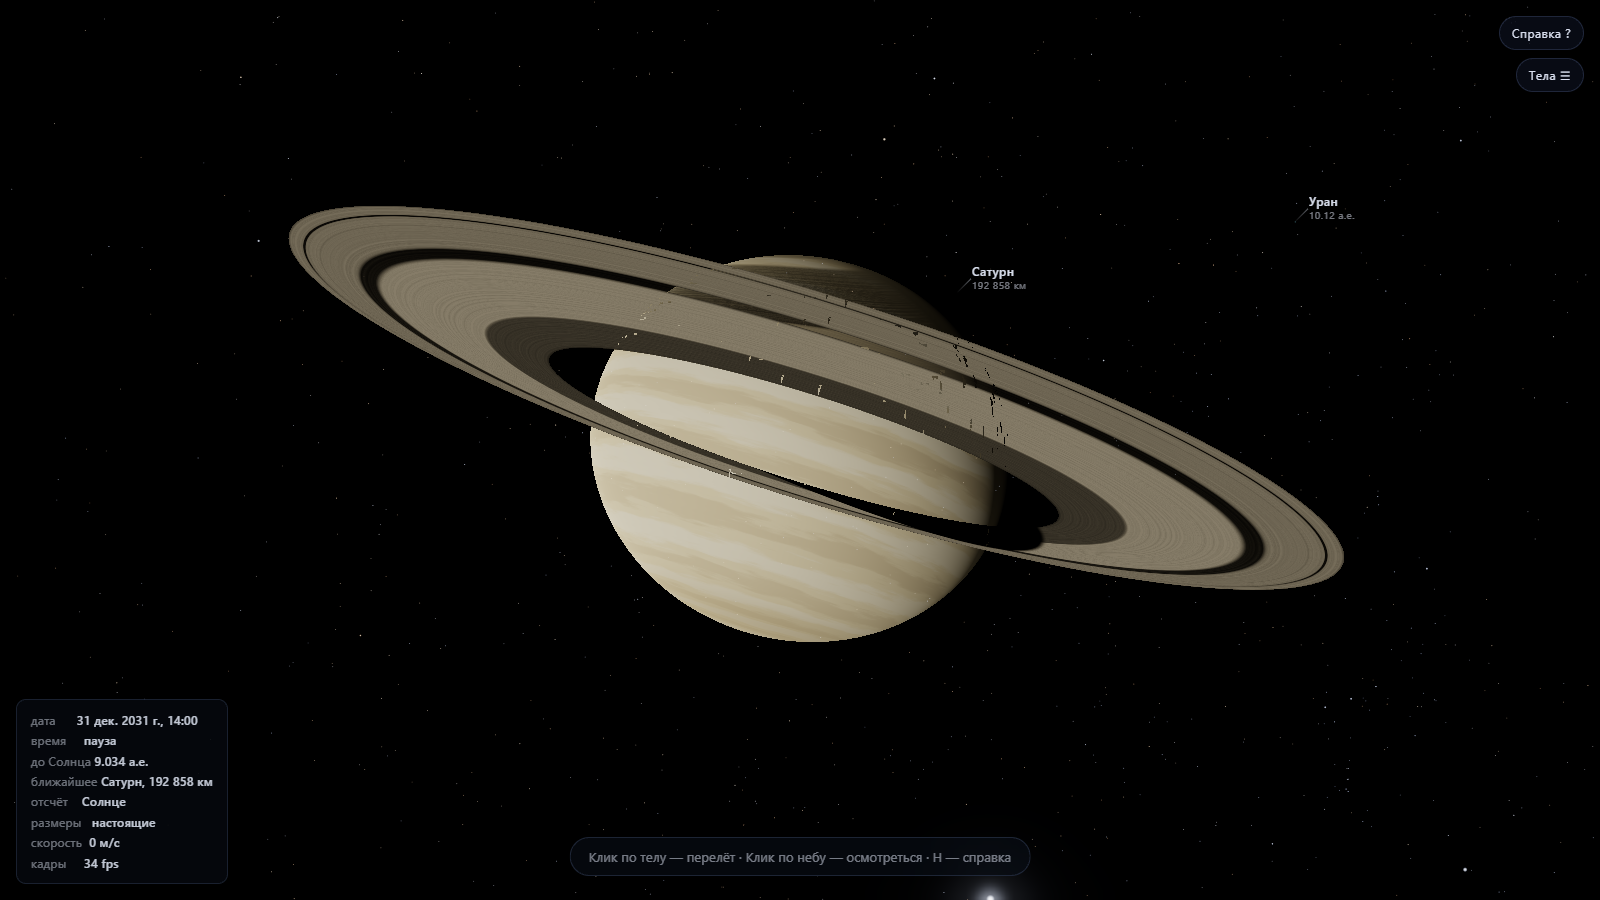
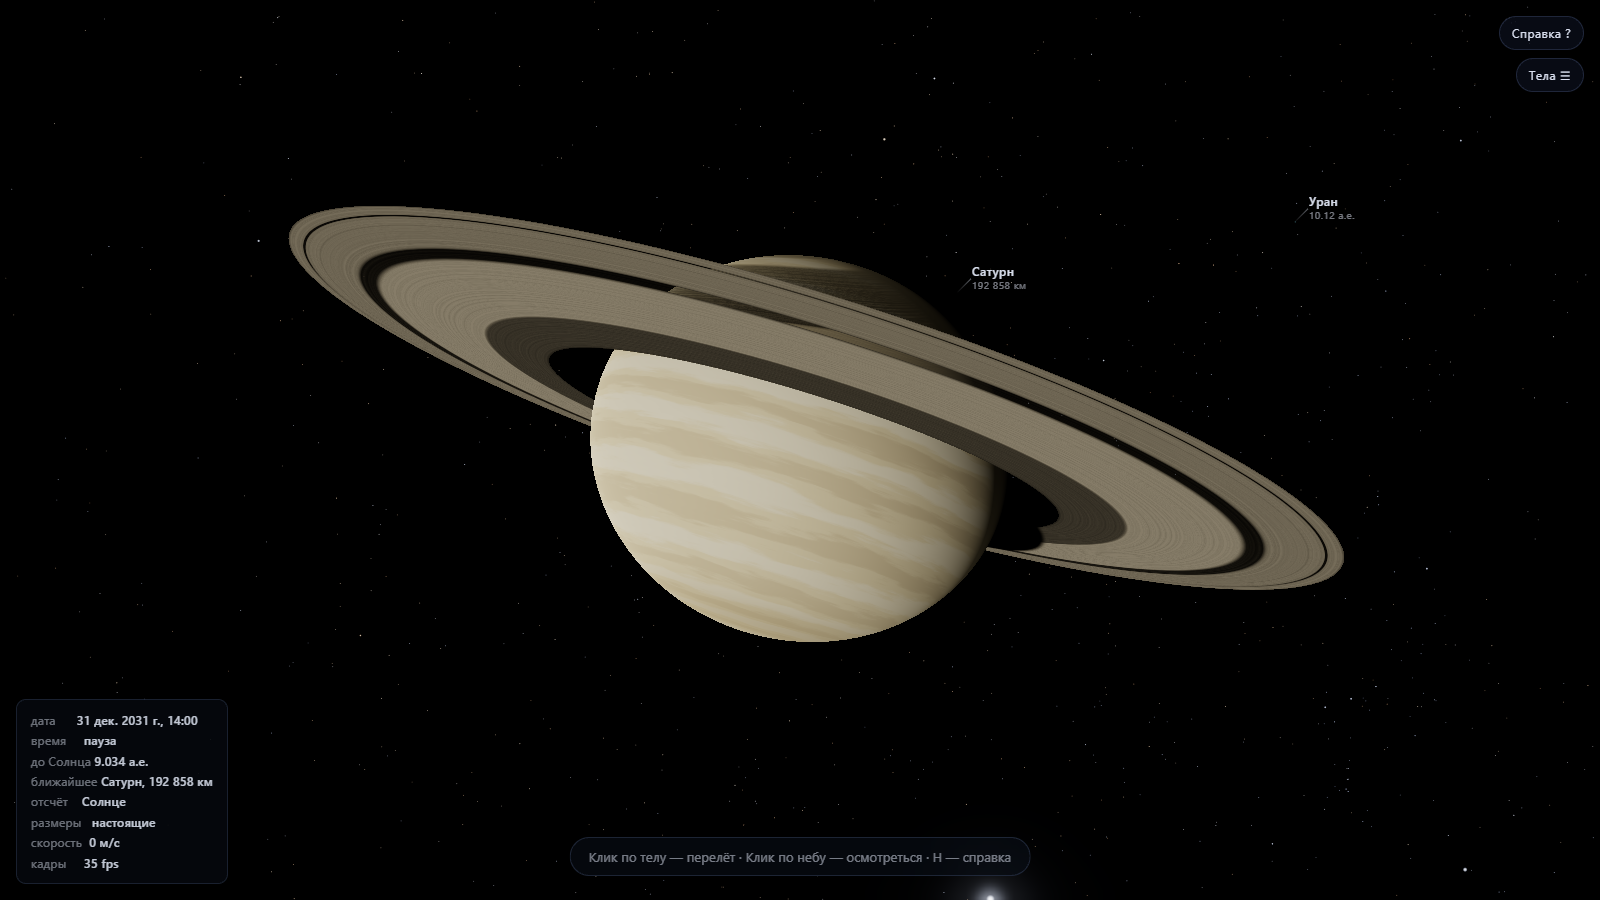
Починена глубина: тела перестали просвечивать друг сквозь друга
Рендерер включает логарифмический буфер глубины, но ни один из собственных
шейдеров не подключал чанки three.js, которые в этот буфер пишут. При near
в один метр и far в 1e13 км обычная глубина схлопывается в единицу, и порядок
перекрытия определялся порядком отрисовки: дальняя половина колец Сатурна
рисовалась поверх планеты, а на пересечении шла «крошка» из z-fighting.

Чанки logdepthbuf подключены во всех шейдерах — поверхностей, колец, Солнца,
короны, точек тел, звёзд и линий орбит.

Следом всплыли два последствия уже работающей глубины:

- Точка-билборд далёкого тела тонула в собственной сфере: её ближняя половина
  оказывалась внутри тела, и вместо светящегося Ио получался тёмный диск с
  ободком. Билборд вынесен вперёд сферы на 1.05 радиуса — именно вперёд, а не
  отключением проверки глубины, чтобы точка по-прежнему пряталась за телами,
  которые действительно перед ней.

- Подпись закрытого тела осталась висеть над тем, что его закрывает: Ганимед
  ушёл за Юпитер, а подпись продолжала обещать спутник посреди облачных полос.
  Добавлена проверка перекрытия диском (isHiddenBehindDisc) — она держит первое
  правило слоя подписей: за подписью обязано что-то стоять.

Заодно вылечен флейк сквозного теста экспозиции. Он ждал адаптацию фиксированной
паузой, но шаг адаптации идёт по dt кадрового цикла, а тот ограничен сверху;
под нагрузкой параллельных воркеров адаптация отстаёт от секундомера. Ожидание
[…]

Changed region(s): [[0.375, 0.4356, 0.625, 0.6222]]

diff --git a/src/ui/labels.ts b/src/ui/labels.ts
@@ -85,6 +85,57 @@ export function keepWithoutOverlap(boxes: readonly LabelBox[]): boolean[] {
   return kept;
 }
 
+/** Диск тела на экране — то, чем одно тело может закрыть другое. */
+export interface LabelDisc {
+  x: number;
+  y: number;
+  radiusPx: number;
+  /** Расстояние до камеры; меньше — ближе. */
+  depth: number;
+}
+
+/**
+ * Закрыто ли тело диском другого тела.
+ *
+ * Нужно потому, что «тело нарисовано» и «тело видно» — разные вещи. Ганимед
+ * уходит за Юпитер каждые несколько часов, и на это время его подпись начинает
+ * указывать на облачные полосы Юпитера, обещая спутник там, где его нет.
+ *
+ * Закрывающим считается только тело, у которого есть различимый диск: далёкая
+ * планета нарисована точкой в пару пикселей и закрыть собой ничего не может,
+ * сколько бы точек ни совпало на экране.
+ *
+ * @param index номер проверяемого тела — само себя оно не закрывает
+ */
+export function isHiddenBehindDisc(
+  discs: readonly (LabelDisc | null)[],
+  index: number,
+): boolean {
+  const target = discs[index];
+  if (!target) return false;
+
+  for (let i = 0; i < discs.length; i += 1) {
+    if (i === index) continue;
+
+    const occluder = discs[i];
+    if (!occluder) continue;
+    // Точка закрыть не может, и дальнее не закрывает ближнее.
+    if (occluder.radiusPx < MIN_OCCLUDER_RADIUS || occluder.depth >= target.depth) continue;
+
+    const dx = target.x - occluder.x;
+    const dy = target.y - occluder.y;
+    // Небольшой недобор радиуса: у самого края диска тело видно краем, и
+    // гасить подпись там значило бы мигать ею на каждом касании лимба.
+    const limit = occluder.radiusPx * 0.98;
+    if (dx * dx + dy * dy < limit * limit) return true;
+  }
+
+  return false;
+}
+
+/** Меньше этого радиуса тело — точка на небе, а не заслонка. */
+const MIN_OCCLUDER_RADIUS = 1.5;
+
 interface LabelEntry {
   readonly source: LabelSource;
   readonly element: HTMLElement;
@@ -99,6 +150,8 @@ interface LabelEntry {
 export class LabelLayer {
   private readonly entries: LabelEntry[] = [];
   private readonly point: ScreenPoint = { x: 0, y: 0, depth: 0 };
+  private readonly probe: ScreenPoint = { x: 0, y: 0, depth: 0 };
+  private readonly discs: (LabelDisc | null)[] = [];
   private readonly boxes: LabelBox[] = [];
   private enabled = true;
 
@@ -160,11 +213,29 @@ export class LabelLayer {
   update(camera: PerspectiveCamera, widthPx: number, heightPx: number, dt: number): void {
     this.boxes.length = 0;
 
-    // Первый проход: где подпись оказалась бы и претендует ли она на место.
+    // Первый проход: диски тел на экране — по ним видно, кто кого закрывает.
+    this.discs.length = 0;
+    for (const entry of this.entries) {
+      if (!projectToScreen(entry.source.renderPosition, camera, widthPx, heightPx, this.probe)) {
+        this.discs.push(null);
+        continue;
+      }
+      this.discs.push({
+        x: this.probe.x,
+        y: this.probe.y,
+        depth: this.probe.depth,
+        radiusPx: angularRadiusPixels(entry.source.radius, this.probe.depth, camera.fov, heightPx),
+      });
+    }
+
+    // Второй проход: где подпись оказалась бы и претендует ли она на место.
     const candidates: (LabelBox | null)[] = [];
 
-    for (const entry of this.entries) {
-      const box = this.place(entry, camera, widthPx, heightPx);
+    for (let i = 0; i < this.entries.length; i += 1) {
+      const entry = this.entries[i]!;
+      const box = isHiddenBehindDisc(this.discs, i)
+        ? null
+        : this.place(entry, camera, widthPx, heightPx);
       candidates.push(box);
       if (box) this.boxes.push(box);
     }
@@ -186,7 +257,7 @@ export class LabelLayer {
 
   /**
    * Экранное место подписи, либо null, если её не должно быть: тело за спиной,
-   * за краем кадра или не нарисовано вовсе.
+   * за краем кадра, не нарисовано вовсе или закрыто другим телом.
    */
   private place(
     entry: LabelEntry,

diff --git a/e2e/helpers.ts b/e2e/helpers.ts
@@ -85,6 +85,61 @@ export async function distanceInRadii(page: Page, id: string): Promise<number> {
   }, id);
 }
 
+/**
+ * Дождаться, пока экспозиция перестанет меняться.
+ *
+ * Ждать её фиксированной паузой нельзя. Адаптация идёт по `dt` кадрового цикла,
+ * а тот ограничен сверху (иначе после переключения вкладки сцена скакнула бы
+ * на полчаса вперёд). Пока кадры идут часто, шаг по времени совпадает с
+ * настенным; но когда воркеры Playwright делят одну видеокарту и частота
+ * падает, ограничение срабатывает, и адаптация отстаёт от секундомера в разы.
+ * Отсюда и брались падения «на ровном месте» в полном прогоне при зелёном
+ * одиночном запуске.
+ *
+ * Поэтому ждём не время, а результат: значение считается установившимся, когда
+ * несколько замеров подряд отличаются меньше чем на процент.
+ */
+export async function waitForStableExposure(page: Page, timeout = 40_000): Promise<number> {
+  return page.evaluate(
+    async (limit) => {
+      /**
+       * Замеры разносим во времени. Сравнивать соседние кадры бессмысленно:
+       * при постоянной времени 1.5 с и шестидесяти кадрах в секунду шаг за
+       * кадр составляет около процента, то есть попадает в любой разумный
+       * порог «не меняется» — и разгар адаптации не отличить от покоя.
+       * За четверть секунды шаг составляет уже полтора десятка процентов,
+       * и разница видна безошибочно.
+       */
+      const SAMPLE_MS = 250;
+      const STABLE_SAMPLES = 6;
+      const TOLERANCE = 0.005;
+
+      const sleep = (ms: number) => new Promise((resolve) => setTimeout(resolve, ms));
+      const read = () => window.sim.exposure.value as number;
+
+      const window_: number[] = [];
+      const deadline = Date.now() + limit;
+
+      while (Date.now() < deadline) {
+        await sleep(SAMPLE_MS);
+        window_.push(read());
+        if (window_.length > STABLE_SAMPLES) window_.shift();
+
+        if (window_.length === STABLE_SAMPLES) {
+          const lo = Math.min(...window_);
+          const hi = Math.max(...window_);
+          if (hi - lo <= lo * TOLERANCE) return hi;
+        }
+      }
+
+      // Не устоялось за отведённое время — отдаём последнее значение, чтобы
+      // тест упал на осмысленной проверке, а не на таймауте помощника.
+      return read();
+    },
+    timeout,
+  );
+}
+
 /** Дождаться конца перелёта. */
 export async function waitForArrival(page: Page, id: string): Promise<void> {
   await page.waitForFunction(

diff --git a/tests/labels.test.ts b/tests/labels.test.ts
@@ -1,7 +1,12 @@
 import { describe, expect, it } from 'vitest';
 import { PerspectiveCamera, Vector3 } from 'three';
 
-import { keepWithoutOverlap, type LabelBox } from '../src/ui/labels';
+import {
+  isHiddenBehindDisc,
+  keepWithoutOverlap,
+  type LabelBox,
+  type LabelDisc,
+} from '../src/ui/labels';
 import {
   angularRadiusPixels,
   projectToScreen,
@@ -131,5 +136,63 @@ describe('keepWithoutOverlap', () => {
 
   it('пустой список не ломает разбор', () => {
     expect(keepWithoutOverlap([])).toEqual([]);
+  });
+});
+
+describe('подпись закрытого тела', () => {
+  const disc = (x: number, y: number, radiusPx: number, depth: number): LabelDisc => ({
+    x,
+    y,
+    radiusPx,
+    depth,
+  });
+
+  it('спутник за диском планеты закрыт ею', () => {
+    // Ганимед в 1.37 млн км за Юпитером в 0.33 млн, и проецируется на его диск.
+    const jupiter = disc(800, 450, 185, 328_863);
+    const ganymede = disc(845, 300, 1.2, 1_371_366);
+
+    expect(isHiddenBehindDisc([jupiter, ganymede], 1)).toBe(true);
+  });
+
+  it('спутник перед диском планеты не закрыт', () => {
+    const jupiter = disc(800, 450, 185, 328_863);
+    const io = disc(845, 300, 1.4, 200_000);
+
+    expect(isHiddenBehindDisc([jupiter, io], 1)).toBe(false);
+  });
+
+  it('спутник рядом с диском, но вне его, не закрыт', () => {
+    const jupiter = disc(800, 450, 185, 328_863);
+    const outside = disc(800, 450 - 200, 1.2, 1_371_366);
+
+    expect(isHiddenBehindDisc([jupiter, outside], 1)).toBe(false);
+  });
+
+  it('далёкая точка не закрывает собой ничего', () => {
+    // Совпадение на экране двух точек — не перекрытие: у точки нет диска.
+    const near = disc(500, 500, 0.8, 1_000);
+    const far = disc(500, 500, 0.5, 9_000_000);
+
+    expect(isHiddenBehindDisc([near, far], 1)).toBe(false);
+  });
+
+  it('тело не закрывает само себя', () => {
+    expect(isHiddenBehindDisc([disc(0, 0, 300, 1_000)], 0)).toBe(false);
+  });
+
+  it('тело вне кадра в расчёте не участвует', () => {
+    const jupiter = disc(800, 450, 185, 328_863);
+
+    expect(isHiddenBehindDisc([jupiter, null], 1)).toBe(false);
+    expect(isHiddenBehindDisc([null, jupiter], 1)).toBe(false);
+  });
+
+  it('край диска подпись не гасит', () => {
+    // Ровно на границе тело видно краем: мигать подписью там нельзя.
+    const jupiter = disc(800, 450, 185, 328_863);
+    const atLimb = disc(800 + 185, 450, 1.2, 1_371_366);
+
+    expect(isHiddenBehindDisc([jupiter, atLimb], 1)).toBe(false);
   });
 });

diff --git a/src/scene/bodyPoint.ts b/src/scene/bodyPoint.ts
@@ -147,9 +147,29 @@ export class BodyPoint {
 
     // Размер точки не меньше физического — вблизи она обязана совпасть с диском.
     const pixelRadius = Math.max(magnitudeToPointRadius(magnitude), truePixels);
-    this.mesh.position.copy(bodyRenderPosition);
+
+    /*
+     * Билборд выносится вперёд собственной сферы.
+     *
+     * Если оставить его в центре тела, ближняя половина плоскости окажется
+     * внутри сферы, и та закроет середину точки: вместо светящегося тела
+     * получается тёмный диск с ободком. Ровно это и происходило с Ио.
+     *
+     * Выносить надо именно к камере, а не отключать проверку глубины: точка
+     * обязана прятаться за телами, которые действительно перед ней. Запас
+     * в пять процентов радиуса покрывает и сжатие тела у полюсов.
+     */
+    const standoff = bodyRadiusKm * 1.05;
+    const billboardDistance = Math.max(distance - standoff, distance * 0.01);
+
+    this.mesh.position
+      .copy(bodyRenderPosition)
+      .multiplyScalar(billboardDistance / distance);
     this.mesh.quaternion.copy(camera.quaternion);
-    this.mesh.scale.setScalar(pixelRadius * radiansPerPixel * distance);
+
+    // Угловой размер считается от расстояния до самого билборда, иначе вынос
+    // вперёд незаметно увеличил бы точку у близких тел.
+    this.mesh.scale.setScalar(pixelRadius * radiansPerPixel * billboardDistance);
 
     this.mesh.material.uniforms.uBrightness!.value =
       (SKY_POINT_INTENSITY * magnitudeToBrightness(magnitude) * opacity) / Math.max(exposure, 1e-4);

diff --git a/e2e/rendering.spec.ts b/e2e/rendering.spec.ts
@@ -1,6 +1,12 @@
 import { expect, test } from '@playwright/test';
 
-import { openScene, pauseAt, waitForArrival, waitForFrames } from './helpers';
+import {
+  openScene,
+  pauseAt,
+  waitForArrival,
+  waitForFrames,
+  waitForStableExposure,
+} from './helpers';
 
 /**
  * Рендеринг: экспозиция, кольца, поверхности.
@@ -19,23 +25,20 @@ test.describe('рендеринг', () => {
     // Дневная сторона Луны: экспозиция около единицы, как и положено в одной
     // астрономической единице от Солнца.
     await page.evaluate(() => window.sim.goTo('moon', 3.2, 50));
-    await page.waitForTimeout(4000);
-    const day = await page.evaluate(() => window.sim.exposure.value);
+    const day = await waitForStableExposure(page);
 
     expect(day).toBeGreaterThan(0.5);
     expect(day).toBeLessThan(3);
 
     // Ночная сторона: света в десять тысяч раз меньше, и «зрачок» раскрывается.
     await page.evaluate(() => window.sim.goTo('moon', 3.2, 170));
-    await page.waitForTimeout(8000);
-    const night = await page.evaluate(() => window.sim.exposure.value);
+    const night = await waitForStableExposure(page);
 
     expect(night).toBeGreaterThan(day * 50);
 
     // И возвращается обратно, когда снова смотрим на освещённое.
     await page.evaluate(() => window.sim.goTo('moon', 3.2, 50));
-    await page.waitForTimeout(8000);
-    const back = await page.evaluate(() => window.sim.exposure.value);
+    const back = await waitForStableExposure(page);
 
     expect(back).toBeLessThan(night / 10);
   });

diff --git a/src/scene/orbits.ts b/src/scene/orbits.ts
@@ -62,14 +62,24 @@ export class OrbitLines {
           uOpacity: { value: 0.22 },
         },
         vertexShader: /* glsl */ `
+          #include <common>
+          #include <logdepthbuf_pars_vertex>
+
           void main() {
             gl_Position = projectionMatrix * modelViewMatrix * vec4(position, 1.0);
+
+            #include <logdepthbuf_vertex>
           }
         `,
         fragmentShader: /* glsl */ `
+          #include <logdepthbuf_pars_fragment>
+
           uniform vec3 uColor;
           uniform float uOpacity;
+
           void main() {
+            #include <logdepthbuf_fragment>
+
             gl_FragColor = vec4(uColor * uOpacity, 1.0);
           }
         `,
